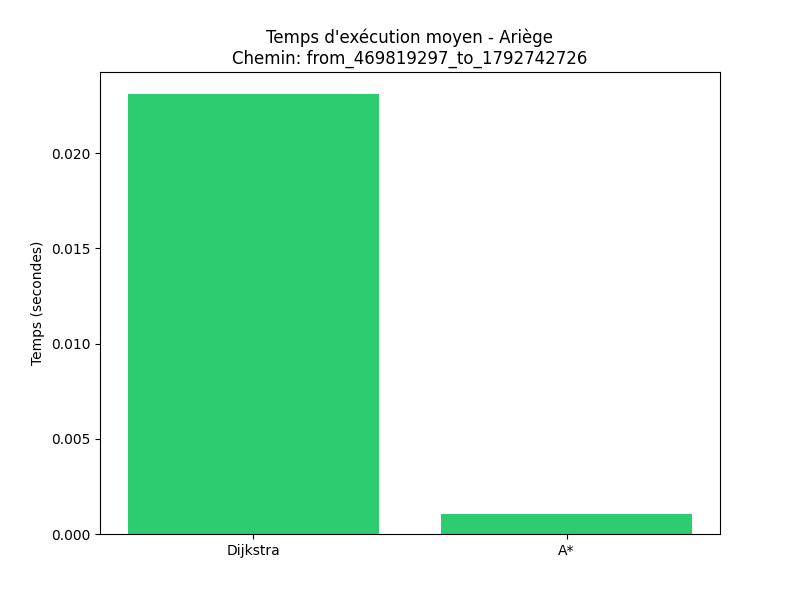
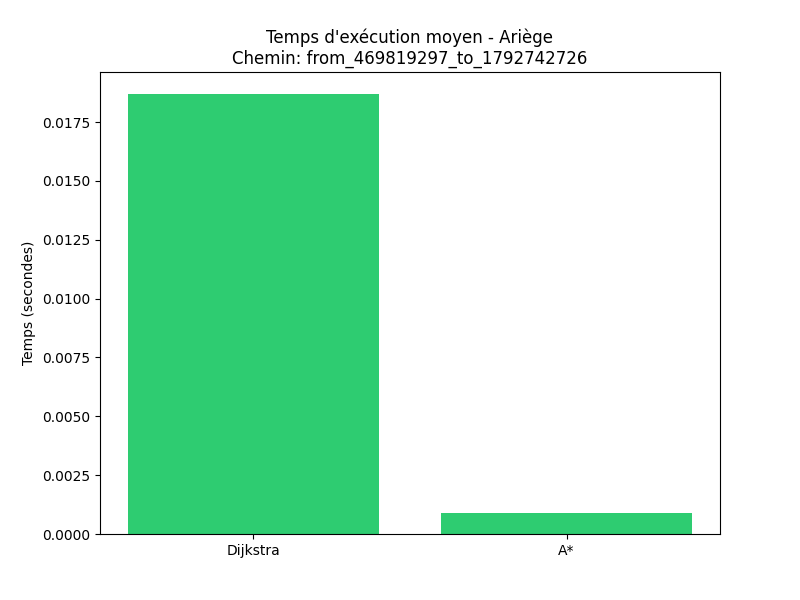
report finish + update graph

diff --git a/projet-carte/src/benchmark.py b/projet-carte/src/benchmark.py
@@ -197,9 +197,25 @@ class BenchmarkAnalyzer:
         
         for ax, (metric, ylabel) in zip(axes, metrics):
             data = [self.results[algo][f'avg_{metric}'] for algo in ['dijkstra', 'a_star']]
-            ax.bar(['Dijkstra', 'A*'], data, color=['#2ecc71', '#e74c3c'])
+            bars = ax.bar(['Dijkstra', 'A*'], data, color=['#2ecc71', '#e74c3c'])
             ax.set_ylabel(ylabel)
             ax.set_title(metric.capitalize())
+            
+            # Ajout des valeurs au-dessus des barres
+            for bar, value in zip(bars, data):
+                height = bar.get_height()
+                if metric == 'time':
+                    ax.text(bar.get_x() + bar.get_width()/2., height,
+                           f'{value:.4f}s',
+                           ha='center', va='bottom')
+                elif metric == 'memory':
+                    ax.text(bar.get_x() + bar.get_width()/2., height,
+                           f'{value:.2f}MB',
+                           ha='center', va='bottom')
+                else:  # cpu
+                    ax.text(bar.get_x() + bar.get_width()/2., height,
+                           f'{value:.1f}%',
+                           ha='center', va='bottom')
         
         plt.tight_layout()
         plt.savefig(os.path.join(self.path_output_dir, f'{self.graph_name}_{self.path_name}_combined_metrics.png'))

diff --git a/README.md b/README.md
@@ -29,7 +29,7 @@
       - [6.2.1 Temps de chargement des fichiers CSV](#621-temps-de-chargement-des-fichiers-csv)
       - [6.2.2 Jeux de données : Serres sur Arget](#622-jeux-de-données--serres-sur-arget)
       - [6.2.3 Jeux de données : Ariège](#623-jeux-de-données--ariège)
-    - [6.3 Analyse de la complexité](#63-analyse-de-la-complexité)
+    - [6.3 Analyse et Comparaison de la complexité](#63-analyse-et-comparaison-de-la-complexité)
       - [6.3.1 Structure de données](#631-structure-de-données)
       - [6.3.2 Complexité algorithmique](#632-complexité-algorithmique)
       - [6.3.3 Complexité spatiale](#633-complexité-spatiale)
@@ -139,7 +139,7 @@ Vous pouvez trouvez l'implémentation de l'algorithme de Dijkstra dans le fichie
 - Stockage redondant des arêtes bidirectionnelles
 
 ### 4.4 Solutions proposées
-- Restructurer le graphe pour un accès O(1) aux voisins (voir section [Structure de données](#structure-de-données))
+- Restructurer le graphe pour un accès O(1) aux voisins (voir section [6.3.1 Structure de données](#631-structure-de-données))
 - Orienter la recherche vers la destination pour éviter l'exploration inutile de nœuds
 - Utiliser une estimation de la distance restante pour prioriser les nœuds prometteurs
 - Réduction du graphe aux nœuds essentiels
@@ -160,9 +160,9 @@ Développé par Peter Hart, Nils Nilsson et Bertram Raphael, A* est une extensio
 >> Une heuristique est une estimation de la distance restante pour atteindre la destination. Elle est utilisée pour accélérer la recherche.
 >> Dans le contexte de A*, l'heuristique (comme la distance à vol d'oiseau) permet d'orienter la recherche vers la destination en estimant la distance restante, même si cette estimation n'est pas exacte, elle doit être optimiste (ne jamais surestimer la distance réelle).
 
-- Utilise une fonction f(n) = g(n) + h(n)
-  - g(n) : coût réel depuis le départ
-  - h(n) : estimation heuristique jusqu'à l'arrivée
+- Utilise une fonction **f(n) = g(n) + h(n)**
+  - **g(n)** : coût réel depuis le départ
+  - **h(n)** : estimation heuristique jusqu'à l'arrivée
 - Guide la recherche vers la destination
 
 **Différences clés avec Dijkstra :**
@@ -196,18 +196,18 @@ Ces solutions ne seront pas implémentées dans le cadre de ce projet, mais elle
 ## 6. Benchmark et Analyse
 
 Les benchmarks ont été réalisés sur différents jeux de données :
-1. Serres sur Arget : dans ```data/france/serres-sur-arget/```
-2. Ariège : dans ```data/france/ariege/```
+1. **Serres sur Arget** : dans ```data/france/serres-sur-arget/```
+2. **Ariège** : dans ```data/france/ariege/```
 
 Voir ```graph_data.py``` pour plus de détails sur la structure des dossiers et fichiers de données.
 
 Différents types de métriques seront mesurés :
-- Temps d'exécution
-- Utilisation de la mémoire
-- Utilisation du CPU (en %)
-- Nombre de nœuds visités
-- La distance parcourue
-- Le nombre d'éxecutions : utilisé afin d'obtenir la moyenne des résultats des métriques pour des résultats plus pertinents.
+- **Temps d'exécution** : temps de recherche de chemin
+- **Utilisation de la mémoire**
+- **Utilisation du CPU (en %)**
+- **Nombre de nœuds visités**
+- **La distance parcourue**
+- **Le nombre d'éxecutions** : utilisé afin d'obtenir la moyenne des résultats des métriques pour des résultats plus pertinents.
 
 ### 6.1 Environnement de test
 
@@ -243,7 +243,11 @@ Pour la suite du projet, il a été choisi d'utiliser **Polars** qui démontre l
 
 #### 6.2.2 Jeux de données : Serres sur Arget
 
-Ensuite des benchmarks ont été réalisés pour les algorithmes de Dijkstra et A* afin de mesurer les métriques mentionner précédemment dans la partie [6. Benchmark et Analyse](#6-benchmark-et-analyse).
+Ensuite des benchmarks ont été réalisés pour les algorithmes de Dijkstra et A* afin de mesurer les métriques mentionner précédemment dans la partie [6. Benchmark et Analyse](#6-benchmark-et-analyse). Vous pouvez regénérer tous les graphiques des jeux de données, comme indiqué dans la partie [3.2 Lancer les benchmarks de recherche de chemin](#32-lancer-les-benchmarks-de-recherche-de-chemin), en éxecutant la commande :
+
+```bash
+python benchmark_paths.py
+```
 
 Résultat des benchmarks, pour le chemin du node **Saint-Pierre-de-Rivière (469819297)** au node **Saint-Pierre-de-Rivière (469819297)**.
 ![Benchmark Serres sur Arget - chemin 469819297 -> 469819297](./projet-carte/src/benchmarks/Serres-sur-Arget/from_469819297_to_469819297/Serres-sur-Arget_from_469819297_to_469819297_combined_metrics.png)
@@ -260,10 +264,11 @@ Résultat des benchmarks, pour le chemin du node **Saint-Pierre-de-Rivière (469
 Résultat des benchmarks, pour le chemin du node **Saint-Pierre-de-Rivière (469819297)** au node **Cabane Coumauzil - barguillere (1205464576)**.
 ![Benchmark Serres sur Arget - chemin 469819297 -> 1205464576](./projet-carte/src/benchmarks/Serres-sur-Arget/from_469819297_to_1205464576/Serres-sur-Arget_from_469819297_to_1205464576_combined_metrics.png)
 
-> _Note : Ce benchmark du chemin de Saint-Pierre-de-Rivière à Cabane Coumauzil - barguillere est le plus long des 4 chemins tester. Cependant en raison de probléme de données dans le jeu de données Ariège, il n'a pas été possible de réaliser ce benchmark pour le chemin de Saint-Pierre-de-Rivière à Grotte Bernard dans la partie suivante : [6.2.3 Jeux de données : Ariège](#623-jeux-de-données-ariège)._
+> _Note : Ce benchmark du chemin de Saint-Pierre-de-Rivière à Cabane Coumauzil - barguillere est le plus long des 4 chemins tester. Cependant en raison de probléme de données dans le jeu de données Ariège, il n'a pas été possible de réaliser ce benchmark pour le chemin de Saint-Pierre-de-Rivière à Grotte Bernard dans la partie suivante : [6.2.3 Jeux de données : Ariège](#623-jeux-de-données--ariège)._
 
-On peut constater que les performances de l'algorithme A* sont nettement supérieures à celles de l'algorithme de Dijkstra dans la plupart des cas. Cependant, il est intéressant de noter que l'algorithme de Dijkstra se montre plus performant pour le chemin le plus court : ```469819297 (Saint-Pierre-de-Rivière) -> 469819297 (Saint-Pierre-de-Rivière)```. Bien que la cause exacte de ce comportement n'ait pas pu être approfondie par manque de temps, cela pourrait s'expliquer par le surcoût initial de calcul de l'heuristique dans A*. Pour les chemins plus longs, l'algorithme A* démontre une meilleure efficacité en termes d'utilisation de la mémoire, mais nécessite en contrepartie plus de ressources CPU pour le calcul de l'heuristique.
-L'algorithme A* est donc plus performant pour les chemins plus longs, on peut le constater dans le benchmark pour le chemin de Saint-Pierre-de-Rivière à Cabane Coumauzil - barguillere.
+On peut constater que les performances de l'algorithme **A*** sont **nettement supérieures** à celles de l'algorithme de **Dijkstra** dans la plupart des cas. Cependant, il est intéressant de noter que l'algorithme de **Dijkstra** se montre plus **performant** pour le **chemin le plus court** : ```469819297 (Saint-Pierre-de-Rivière) -> 469819297 (Saint-Pierre-de-Rivière)```. 
+Bien que la cause exacte de ce comportement n'ait pas pu être approfondie par manque de temps, cela pourrait s'expliquer par le **surcoût initial** de calcul de l'**heuristique** dans **A***. Pour les chemins plus longs, l'algorithme **A*** démontre une **meilleure efficacité** en termes d'**utilisation de la mémoire**, mais nécessite en contrepartie plus de ressources **CPU** pour le calcul de l'**heuristique**. On peut remarquer que le pourcentage du **CPU** utilisé par l'algorithme **A*** diminue lorsque le chemin devient plus long.
+L'algorithme **A*** est donc plus **performant** pour les **chemins plus longs**, on peut le constater dans le benchmark pour le chemin de Saint-Pierre-de-Rivière à Cabane Coumauzil - barguillere.
 
 #### 6.2.3 Jeux de données : Ariège
 
@@ -276,13 +281,16 @@ Résultat des benchmarks, pour le chemin du node **Saint-Pierre-de-Rivière (469
 Résultat des benchmarks, pour le chemin du node **Saint-Pierre-de-Rivière (469819297)** au node **Grotte Bernard (8490363670)**.
 ![Benchmark Ariège - chemin 469819297 -> 1792742726](./projet-carte/src/benchmarks/Ariège/from_469819297_to_8490363670/Ariège_from_469819297_to_8490363670_combined_metrics.png)
 
-Même observation concernant les performances de l'algorithme A* par rapport à l'algorithme de Dijkstra en termes de temps de recherche. L'algorithme A* est plus performant pour les chemins plus longs. Il consomme également plus de CPU pour les chemins les plus longs avec très peu de différence entre les deux algorithmes. Cette différence de performance s'explique par l'utilisation de l'heuristique qui permet à A* de mieux cibler la recherche du chemin optimal.
+Même observation concernant les performances de l'algorithme **A*** par rapport à l'algorithme de **Dijkstra** en termes de **temps de recherche**. L'algorithme **A*** est **plus performant** pour les chemins plus longs contrairement a **Dijkstra**. 
+Etonnament l'algorithme **A*** ne consomme pas de **mémoire** ou alors trés peu, rendant impossible de mesurer la mémoire utilisée par l'algorithme. Il consomme également le plus de **CPU** pour les chemins les plus longs avec très peu de différence entre les deux algorithmes. Cette différence de **performance** s'explique par l'utilisation de l'**heuristique** qui permet à **A*** de mieux cibler la recherche du chemin optimal.
 
-### 6.3 Analyse de la complexité
+Certaines **"erreurs"** observées ou **graphiques incohérents** dans les **benchmarks** pourraient être évitées en executant les benchmarks avec un **nombre d'exécutions** plus important, afin de pouvoir obtenir des résultats plus **fiables** pour la comparaison des algorithmes.
+
+### 6.3 Analyse et Comparaison de la complexité
 
 #### 6.3.1 Structure de données
 
-Deux approches ont été envisagées pour la structure de données du graphe :
+Deux approches ont été envisagées pour la structure de données du graphe, dans laquelle les données sont stockées :
 
 1. **Structure initiale (Basique) :**
 
@@ -430,7 +438,7 @@ Bien que la complexité spatiale théorique soit **O(V)** pour les deux algorith
 - Des structures de données plus compactes
 - Une meilleure efficacité dans l'utilisation de l'espace
 
-La notation Big O masque ces différences pratiques importantes, ce qui explique pourquoi elle semble identique alors que l'utilisation réelle de la mémoire est très différente (voir [6.2.2 Jeux de données : Serres sur Arget](#622-jeux-de-données-serres-sur-arget) ou [6.2.3 Jeux de données : Ariège](#623-jeux-de-données-ariège)).
+La notation Big O masque ces différences pratiques importantes, ce qui explique pourquoi elle semble identique alors que l'utilisation réelle de la mémoire est très différente (voir [6.2.2 Jeux de données : Serres sur Arget](#622-jeux-de-données--serres-sur-arget) ou [6.2.3 Jeux de données : Ariège](#623-jeux-de-données--ariège)).
 
 #### 6.3.4 Complexité temporelle
 
@@ -447,15 +455,15 @@ Cependant, dans la pratique :
 
 Basé sur les benchmarks réalisés :
 
-**Pour le jeu de données Serres sur Arget - chemin de Saint-Pierre-de-Rivière à Grotte Bernard (voir [6.2.2 Jeux de données : Serres sur Arget](#622-jeux-de-données-serres-sur-arget)) :**
-- **Dijkstra** : **0.5259 secondes (±0.0296)** en moyenne
-- **A\*** : **0.015 secondes (±0.0015)** en moyenne
-- Gain de performance A* vs Dijkstra :  ~97,15% - Donc **A\*** est environ **35,06 fois plus rapide** que **Dijkstra**
+**Pour le jeu de données Serres sur Arget - chemin de Saint-Pierre-de-Rivière à Grotte Bernard (voir [6.2.2 Jeux de données : Serres sur Arget](#622-jeux-de-données--serres-sur-arget)) :**
+- **Dijkstra** : **0.6341 secondes (±0.0256)** en moyenne
+- **A\*** : **0.0236 secondes (±0.0013)** en moyenne
+- Gain de performance A* vs Dijkstra :  ~96.27% - Donc **A\*** est environ **26.87 fois plus rapide** que **Dijkstra**
 
-**Pour le jeu de données Ariège - chemin de Saint-Pierre-de-Rivière à Grotte Bernard (voir [6.2.3 Jeux de données : Ariège](#623-jeux-de-données-ariège)) :**
-- **Dijkstra** : **0.7382 secondes (±0.0928)** en moyenne
-- **A\*** : **0.0217 secondes (±0.0030)** en moyenne
-- Gain de performance A* vs Dijkstra : ~97,06% - Donc **A\*** est environ **34,02 fois plus rapide** que **Dijkstra**
+**Pour le jeu de données Ariège - chemin de Saint-Pierre-de-Rivière à Grotte Bernard (voir [6.2.3 Jeux de données : Ariège](#623-jeux-de-données--ariège)) :**
+- **Dijkstra** : **0.6489 secondes (±0.0308)** en moyenne
+- **A\*** : **0.0216 secondes (±0.0012)** en moyenne
+- Gain de performance A* vs Dijkstra : ~96,67% - Donc **A\*** est environ **30,04 fois plus rapide** que **Dijkstra**
 
 Dans la pratique A* est bien plus rapide et efficace que Dijkstra.
 
